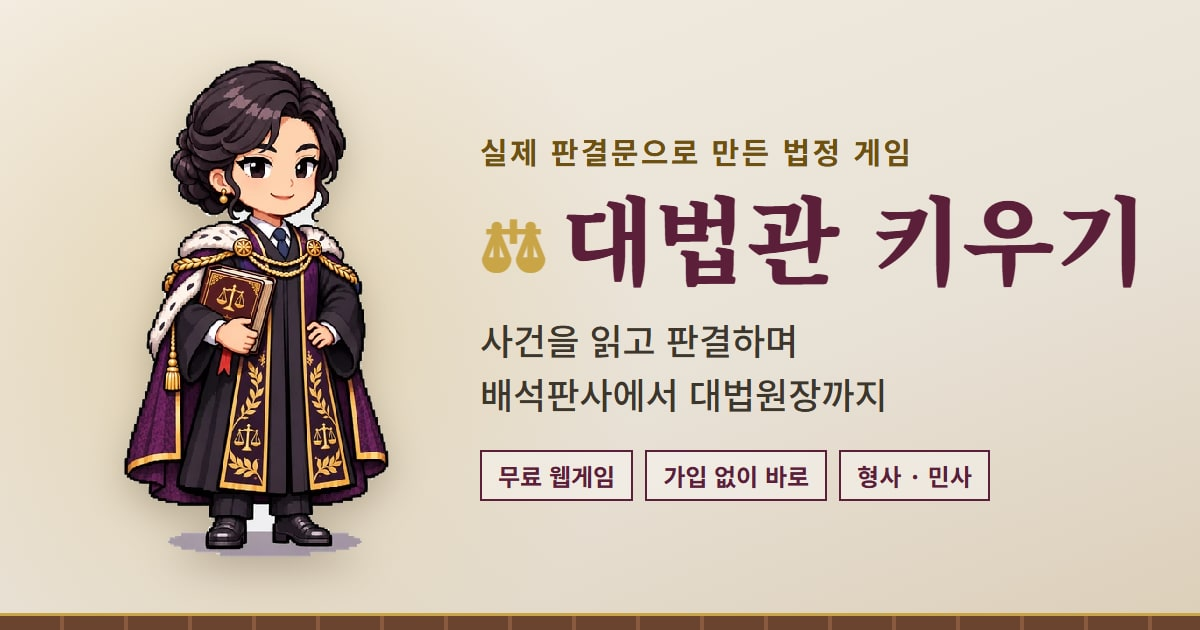
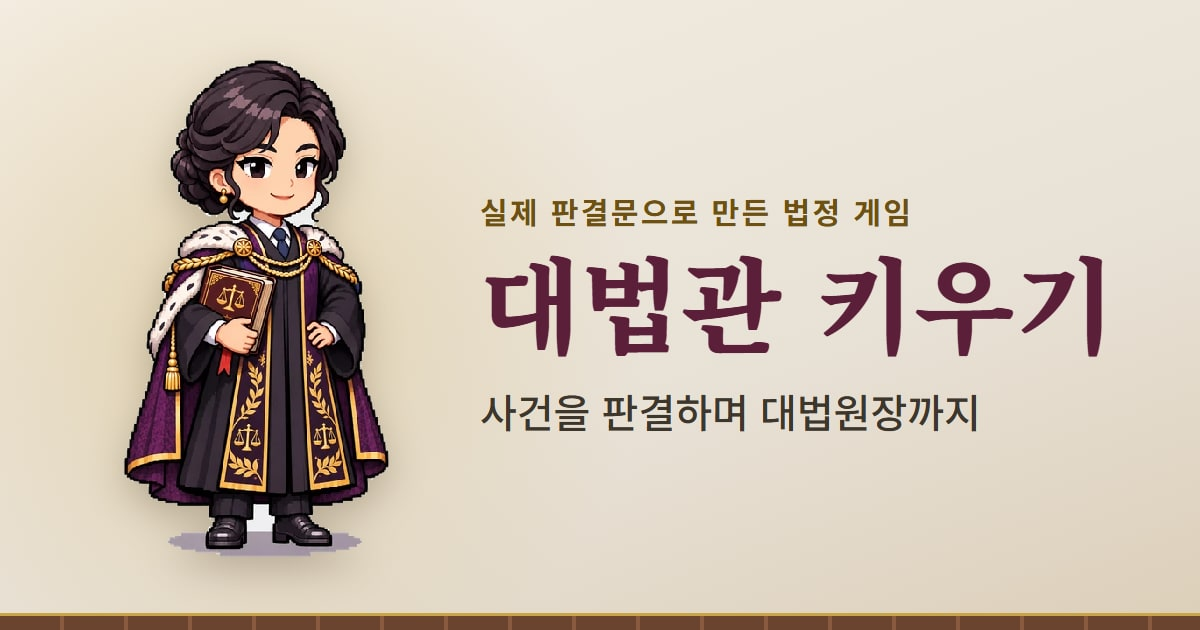
공유 이미지·모바일 헤더 정리, 첫 화면 깜빡임 제거
- 공유 이미지: 저울 아이콘·태그 박스 제거, 설명을 '사건을 판결하며 대법원장까지'로
- 링크 미리보기 설명(og/twitter description)도 같은 문장으로
- 모바일(520px 이하) 헤더 버튼·간격을 줄여 제목과 한 줄에
- 검색엔진용 소개 글은 자바스크립트를 끈 경우에만 보이게 해 첫 화면 깜빡임 제거
- FAQ 제거(구조화 데이터·소개 글)

Changed region(s): [[0.4008, 0.3016, 0.9558, 0.573], [0.4008, 0.6032, 0.8325, 0.8143], [0.4008, 0.2111, 0.7708, 0.2714]]

diff --git a/index.html b/index.html
@@ -17,7 +17,7 @@
     <meta property="og:type" content="website" />
     <meta property="og:site_name" content="대법관 키우기" />
     <meta property="og:title" content="대법관 키우기 - 실제 판결문으로 만든 법정 게임" />
-    <meta property="og:description" content="사건을 읽고 판결하며 배석판사에서 대법원장까지. 가입 없이 바로 하는 무료 웹게임." />
+    <meta property="og:description" content="사건을 판결하며 대법원장까지" />
     <meta property="og:url" content="https://supreme-justice.vercel.app/" />
     <meta property="og:image" content="https://supreme-justice.vercel.app/og-image.jpg" />
     <meta property="og:image:width" content="1200" />
@@ -26,10 +26,10 @@
     <meta property="og:locale" content="ko_KR" />
     <meta name="twitter:card" content="summary_large_image" />
     <meta name="twitter:title" content="대법관 키우기 - 실제 판결문으로 만든 법정 게임" />
-    <meta name="twitter:description" content="사건을 읽고 판결하며 배석판사에서 대법원장까지. 가입 없이 바로 하는 무료 웹게임." />
+    <meta name="twitter:description" content="사건을 판결하며 대법원장까지" />
     <meta name="twitter:image" content="https://supreme-justice.vercel.app/og-image.jpg" />
 
-    <!-- 구조화 데이터: 검색엔진에 "무료 웹 게임 '대법관 키우기'"임을 알림 (본문 소개 글과 내용을 맞출 것) -->
+    <!-- 구조화 데이터: 검색엔진에 "무료 웹 게임 '대법관 키우기'"임을 알림 -->
     <script type="application/ld+json">
       {
         "@context": "https://schema.org",
@@ -55,48 +55,16 @@
             "inLanguage": "ko-KR",
             "isAccessibleForFree": true,
             "offers": { "@type": "Offer", "price": "0", "priceCurrency": "KRW" }
-          },
-          {
-            "@type": "FAQPage",
-            "@id": "https://supreme-justice.vercel.app/#faq",
-            "mainEntity": [
-              {
-                "@type": "Question",
-                "name": "대법관 키우기는 어떤 게임인가요?",
-                "acceptedAnswer": {
-                  "@type": "Answer",
-                  "text": "실제 법원 판결문으로 만든 사건을 읽고 판결을 내리며, 배석판사에서 시작해 대법원장까지 오르는 무료 웹 법정 시뮬레이션 게임입니다."
-                }
-              },
-              {
-                "@type": "Question",
-                "name": "어떻게 플레이하나요?",
-                "acceptedAnswer": {
-                  "@type": "Answer",
-                  "text": "사건개요·증거·쟁점이 담긴 사건 기록을 읽고, 형사 사건은 형량을, 민사 사건은 청구를 얼마나 인정할지 고릅니다. 실제 법원 판결과 같으면 적중으로, 적중이 쌓이면 진급하고 오판이 쌓이면 강등될 수 있습니다."
-                }
-              },
-              {
-                "@type": "Question",
-                "name": "사건은 실제 판례인가요?",
-                "acceptedAnswer": {
-                  "@type": "Answer",
-                  "text": "네. 국가법령정보센터에 공개된 하급심 판결문을 바탕으로 만들었고, 판결을 내린 뒤에는 실제 판결의 주문과 해설, 관련 조문, 판결문 원문 링크를 볼 수 있습니다."
-                }
-              },
-              {
-                "@type": "Question",
-                "name": "무료인가요? 회원가입이 필요한가요?",
-                "acceptedAnswer": {
-                  "@type": "Answer",
-                  "text": "무료이고 회원가입 없이 브라우저에서 바로 할 수 있습니다. 진행 상황과 업적은 지금 쓰는 브라우저에 저장됩니다."
-                }
-              }
-            ]
           }
         ]
       }
     </script>
+
+    <!-- 아래 소개 글은 검색엔진·자바스크립트를 끈 사람용: 게임이 뜨기 전 잠깐 보이는 깜빡임을 막으려고 평소엔 숨김 (게임 화면이 뜨면 React가 대체) -->
+    <style>
+      .prerender { display: none; }
+    </style>
+    <noscript><style>.prerender { display: block; }</style></noscript>
 
     <!-- 첫 화면 깜빡임 방지: src/game/theme.ts 와 같은 규칙으로 테마를 미리 적용 -->
     <script>
@@ -110,7 +78,7 @@
   <body>
     <!-- 게임이 뜨기 전(그리고 자바스크립트 없이 읽는 검색엔진)에 보이는 소개 글. 게임이 시작되면 React가 이 내용을 바꿔 그린다 -->
     <div id="root">
-      <main style="max-width: 720px; margin: 0 auto; padding: 32px 20px; line-height: 1.7; font-family: 'Noto Sans KR', system-ui, sans-serif">
+      <main class="prerender" style="max-width: 720px; margin: 0 auto; padding: 32px 20px; line-height: 1.7; font-family: 'Noto Sans KR', system-ui, sans-serif">
         <h1>대법관 키우기</h1>
         <p>
           대법관 키우기는 실제 법원 판결문으로 만든 형사·민사 사건을 읽고 판결하며, 대법원장까지 오르는 법정
@@ -127,15 +95,6 @@
 
         <h2>직급</h2>
         <p>배석판사 → 단독판사 → 부장판사 → 수석부장판사 → 지방법원장 → 고등법원장 → 대법관 → 대법원장</p>
-
-        <h2>자주 묻는 질문</h2>
-        <h3>사건은 실제 판례인가요?</h3>
-        <p>
-          네. 국가법령정보센터에 공개된 판결문을 바탕으로 만들었고, 판결을 내린 뒤에는 실제 판결의 주문과 해설, 관련 조문, 판결문 원문
-          링크를 볼 수 있습니다.
-        </p>
-        <h3>무료인가요? 회원가입이 필요한가요?</h3>
-        <p>무료이고 회원가입 없이 할 수 있습니다. 진행 상황과 업적은 지금 쓰는 브라우저에 저장됩니다.</p>
 
         <noscript><p><strong>게임을 하려면 브라우저에서 자바스크립트를 켜 주세요.</strong></p></noscript>
       </main>

diff --git a/src/styles/chambers.css b/src/styles/chambers.css
@@ -530,3 +530,23 @@
 .share-result .btn:hover {
   background: var(--well);
 }
+/* 휴대폰: 제목과 버튼 묶음이 한 줄에 들어가도록 버튼·간격을 줄임 */
+@media (max-width: 520px) {
+  .header-right {
+    gap: 4px;
+  }
+  .app-header .header-label {
+    font-size: 0.85rem;
+    margin-right: 2px;
+  }
+  .mute-btn,
+  .theme-btn,
+  .share-btn {
+    width: 30px;
+    height: 30px;
+  }
+  .header-right svg {
+    width: 17px;
+    height: 17px;
+  }
+}
